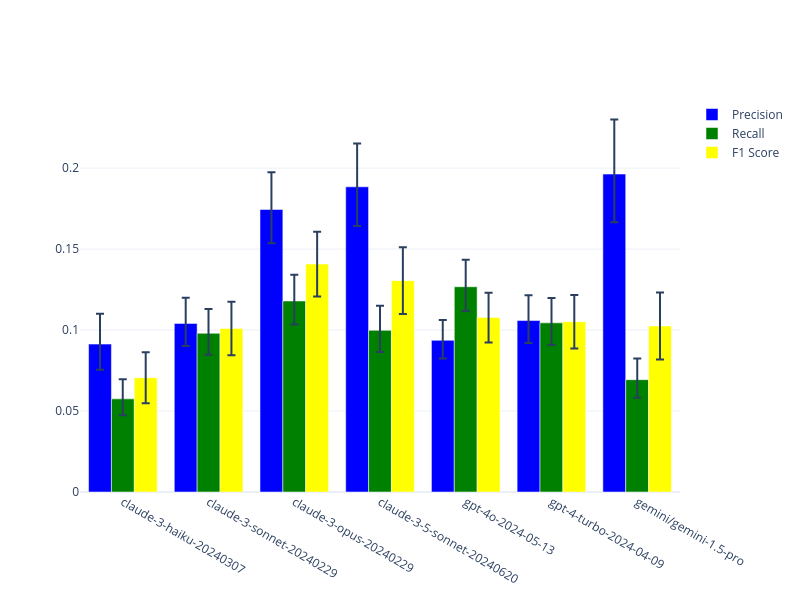
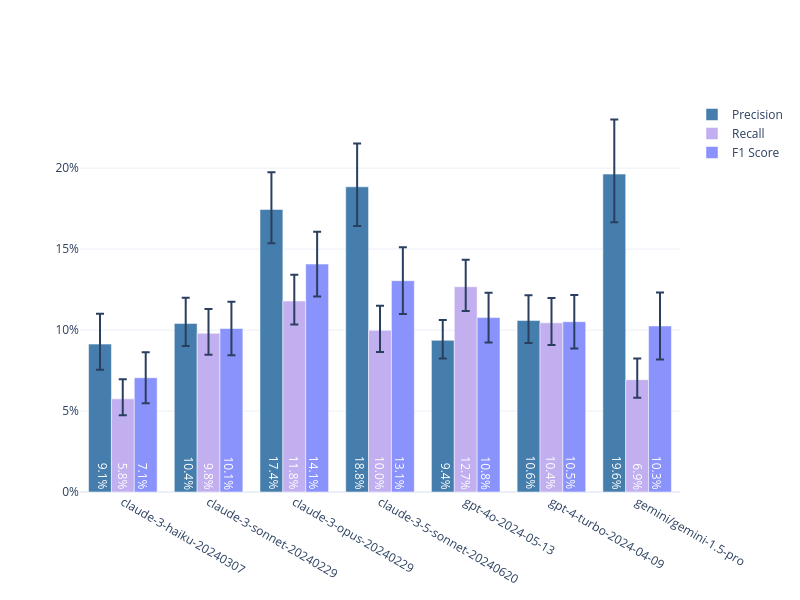
improve the first performance graph

diff --git a/eyeballvul_experiments/results.py b/eyeballvul_experiments/results.py
@@ -152,7 +152,7 @@ def plot_overall_performance(
             x=df["model"],
             y=df["precision"],
             name="Precision",
-            marker_color="blue",
+            marker_color="rgb(69, 126, 172)",
             error_y={
                 "type": "data",
                 "symmetric": False,
@@ -166,7 +166,7 @@ def plot_overall_performance(
             x=df["model"],
             y=df["recall"],
             name="Recall",
-            marker_color="green",
+            marker_color="rgb(194, 175, 240)",
             error_y={
                 "type": "data",
                 "symmetric": False,
@@ -181,7 +181,7 @@ def plot_overall_performance(
             x=df["model"],
             y=df["f1"],
             name="F1 Score",
-            marker_color="yellow",
+            marker_color="rgb(138, 146, 251)",
             error_y={
                 "type": "data",
                 "symmetric": False,
@@ -191,7 +191,25 @@ def plot_overall_performance(
         )
     )
 
+    # Add textual values to the bars.
+    for i, model in enumerate(df["model"]):
+        for j, metric in enumerate(["precision", "recall", "f1"]):
+            fig.add_annotation(
+                x=model,
+                y=0,
+                text=f"{df[metric].iloc[i]:.1%}",
+                showarrow=False,
+                font=dict(color="white", size=12),
+                xanchor="center",
+                yanchor="bottom",
+                xshift=(-1 + j) * 20,
+                textangle=90,
+            )
+
     fig.update_layout(
+        yaxis=dict(
+            tickformat=",.0%",
+        ),
         template="plotly_white",
         barmode="group",
         width=800,
